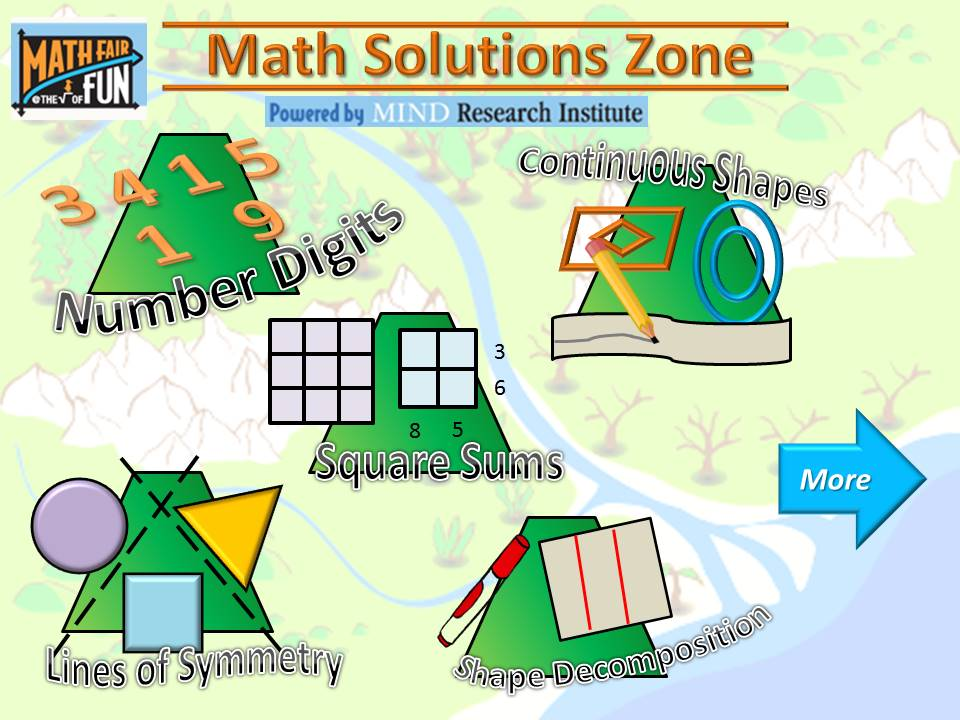
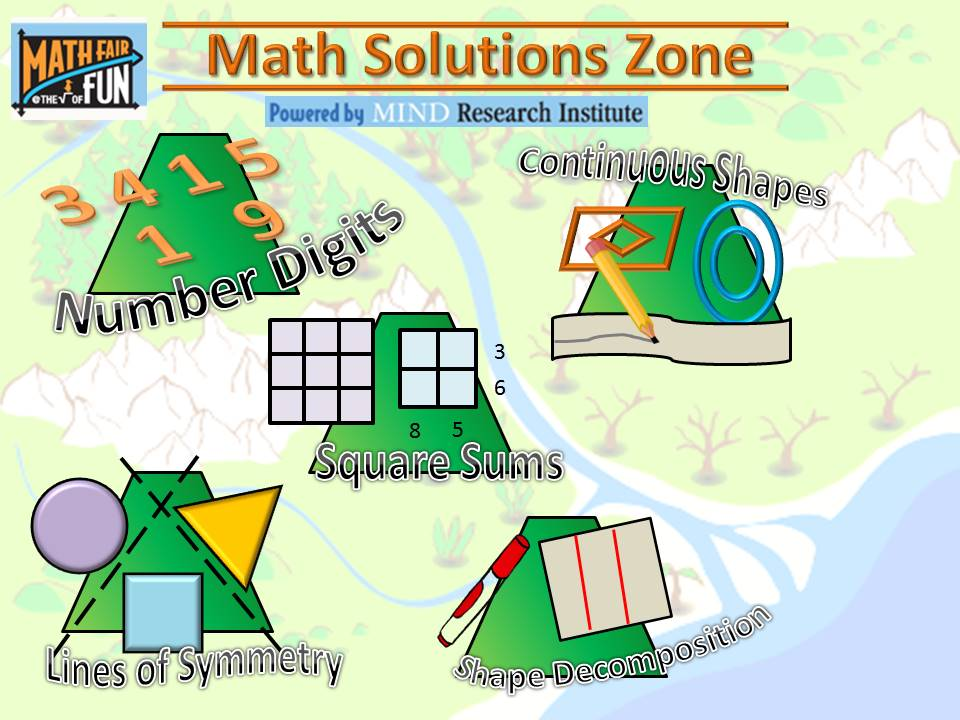
Fixed up square sums and fixed typos

Changed region(s): [[0.8125, 0.55, 0.9688, 0.7639]]

diff --git a/mss.js b/mss.js
@@ -38,7 +38,7 @@
 		['slide1',false,[],false,0,0],
 
 		//Main Menu
-		['slide2',false,[['link',.04,.18,.4,.25,5],['link',.55,.2,.31,.3,17],['link',.02,.64,.29,.31,22],['link',.81,.57,.16,.19,4],
+		['slide2',false,[['link',.04,.18,.4,.25,5],['link',.55,.2,.31,.3,17],['link',.02,.64,.29,.31,22],/*['link',.81,.57,.16,.19,4],*/
 		['link',.28,.44,.28,.235,29],['link',.45,.71,.34,.25,40]],false,0,0],		
 		['slide3',false,[['link',.04,.18,.4,.25,5],['link',.53,.2,.33,.3,14],['link',.02,.64,.29,.31,19],['link',.81,.57,.16,.19,4]],false,0,0],
 		['slide4',false,[['link',.03,.56,.16,.19,startslide]],false,0,0],
@@ -65,8 +65,8 @@
 		[.715,.2],[.28,.45],[.425,.45],[.57,.45],
 		[.715,.45]],[.13,.24]],
 		['slide14',true,[['clear',0,.9,.10,.10,0],['pen',0,.7,.10,.10,0],['eraser',0,.8,.10,.10,0],['link',.87,.85,.10,.10,5]],false,0,0],
-		['slide15',false,[['link',.87,.85,.10,.10,6]],false,0,0],
-		['slide16',false,[['link',.87,.85,.10,.10,6]],false,0,0],
+		['slide15',true,[['clear',0,.9,.10,.10,0],['pen',0,.7,.10,.10,0],['eraser',0,.8,.10,.10,0],['link',.87,.85,.10,.10,6]],false,0,0],
+		['slide16',true,[['clear',0,.9,.10,.10,0],['pen',0,.7,.10,.10,0],['eraser',0,.8,.10,.10,0],['link',.87,.85,.10,.10,6]],false,0,0],
 
 		//Continuous Shapes
 		['slide17',false,[['link',.07,.29,.18,.22,18],['link',.29,.29,.18,.22,19],['link',.52,.29,.18,.22,20],['link',.74,.29,.18,.22,21],
@@ -112,7 +112,7 @@
 		['slide37',false,[['link',.87,.85,.10,.10,29]],true,1,9,[[.293,.385],
 		[.293+2*.136,.385],[.293,.385+.182],[.293+.136,.385+.182],[.293+.136,.385+2*.182],
 		[.293+2*.136,.385+2*.182]],[.136,.182]],
-		['slide38',false,[['link',.87,.85,.10,.10,29]],true,2,9,[[.289,.389],
+		['slide38',false,[['link',.87,.85,.10,.10,29]],true,2,10,[[.289,.389],
 		[.289+2*.139,.389],[.289,.389+.186],[.289+.139,.389+.186],[.289,.389+2*.186],
 		[.289+2*.139,.389+2*.186]],[.139,.186]],
 		['slide39',true,[['clear',0,.9,.10,.10,0],['pen',0,.7,.10,.10,0],['eraser',0,.8,.10,.10,0],['link',.87,.85,.10,.10,30]],false,0,0],
@@ -134,7 +134,7 @@
 	];
 	
 	var dragNums = [['numone',1,0,.1,.1,false],['numtwo',1,.1,.1,.1,false],['numthree',1,.2,.1,.1,false],['numfour',1,.3,.1,.1,false],['numfive',0,.4,.1,.1,false],
-		['numsix',0,.5,.1,.1,false],['numseven',0,.6,.1,.1,false],['numeight',0,.7,.1,.1,false],['numnine',0,.8,.1,.1,false]];
+		['numsix',0,.5,.1,.1,false],['numseven',0,.6,.1,.1,false],['numeight',0,.7,.1,.1,false],['numnine',0,.8,.1,.1,false],['numten',1,0,.1,.1,false]];
 	var numsEnabledMin = 0;
 	var numsEnabledMax = 0;
 
@@ -148,8 +148,6 @@
 		canvas1 = document.getElementById( 'canvas1' );
 		
 		canvas2 = document.getElementById( 'canvas2' );
-	
-		// Just innerwidth/innerheight makes a scroll bar appear, not sure if I am doing something wrong here
 	
 		canvas2.addEventListener('mousedown', mouseDownHandler, false);		
 		canvas2.addEventListener('mousemove', mouseMoveHandler, false);				
@@ -170,6 +168,7 @@
 		canvas2.addEventListener('touchleave', otherHandler, false);
 		canvas2.addEventListener('touchcancel', otherHandler, false);
 
+		// Just innerwidth/innerheight makes a scroll bar appear, not sure if I am doing something wrong here
 		context1  = canvas1.getContext( "2d" );
 		context2  = canvas2.getContext( "2d" );	
 		context1.canvas.width  = window.innerWidth - 25;
@@ -216,9 +215,9 @@
 						numH = slides[curslide][7][1];
 						resetNums();
 					}
-					writeText(curslide);
+					//writeText(curslide);
 				} else if(butType == 'clear') {
-					context2.clearRect(0,0,w+50,h);
+					context2.clearRect(0,0,canvas2.width,canvas2.height);
 				} else if(butType == 'pen') {
 					pen = true;
 				} else if(butType == 'eraser') {
@@ -232,13 +231,15 @@
 		}
 		if(draggable) {
 			for(i=numsEnabledMin;i<numsEnabledMax;i++) {
-				if (curX > dragNums[i][1]*w && curX < (dragNums[i][1] + dragNums[i][3])*w && 
-				curY > dragNums[i][2]*h && curY < (dragNums[i][2] + dragNums[i][4])*h) {
-					held = dragNums[i];
-					dragNums[i][1] = curX/w - dragNums[i][3]/2;
-					dragNums[i][2] = curY/h - dragNums[i][4]/2;
-					drawDraggable();
-					break;
+				if((curslide != 37 || (i != 3 && i != 6)) && (curslide != 38 || (i != 2 && i != 8))) {
+					if (curX > dragNums[i][1]*w && curX < (dragNums[i][1] + dragNums[i][3])*w && 
+					curY > dragNums[i][2]*h && curY < (dragNums[i][2] + dragNums[i][4])*h) {
+						held = dragNums[i];
+						dragNums[i][1] = curX/w - dragNums[i][3]/2;
+						dragNums[i][2] = curY/h - dragNums[i][4]/2;
+						drawDraggable();
+						break;
+					}
 				}
 			}
 		}
@@ -261,6 +262,8 @@
 			
 		}
 		snapped = false;
+		
+		//Manually disabled certain numbers since they don't come in a range in only those two slides
 		if (draggable && held != null) {	
 			for(i=0;i<boxes.length;i++) { 
 				if (curX > (boxes[i][0]+snapConstant*numW)*w && curX < (boxes[i][0] + (1-snapConstant)*numW)*w && 
@@ -270,7 +273,6 @@
 					snapped = true;
 					break;
 				}
-				//dragNums[0][0] = 'erase';
 			}
 			if (!snapped) {
 				held[1] = curX/w - held[3]/2;
@@ -381,13 +383,15 @@
 		
 		if(draggable) {
 			for(i=numsEnabledMin;i<numsEnabledMax;i++) {
-				if (curX > dragNums[i][1]*w && curX < (dragNums[i][1] + dragNums[i][3])*w && 
-				curY > dragNums[i][2]*h && curY < (dragNums[i][2] + dragNums[i][4])*h) {
-					held = dragNums[i];
-					dragNums[i][1] = curX/w - dragNums[i][3]/2;
-					dragNums[i][2] = curY/h - dragNums[i][4]/2;
-					drawDraggable();
-					break;
+				if((curslide != 37 || (i != 3 && i != 6)) && (curslide != 38 || (i != 2 && i != 8))) {
+					if (curX > dragNums[i][1]*w && curX < (dragNums[i][1] + dragNums[i][3])*w && 
+					curY > dragNums[i][2]*h && curY < (dragNums[i][2] + dragNums[i][4])*h) {
+						held = dragNums[i];
+						dragNums[i][1] = curX/w - dragNums[i][3]/2;
+						dragNums[i][2] = curY/h - dragNums[i][4]/2;
+						drawDraggable();
+						break;
+					}
 				}
 			}
 		}
@@ -503,7 +507,9 @@
 	function drawDraggable() {
 		context2.clearRect(0,0,canvas2.width,canvas2.height);
 		for(i=numsEnabledMin;i<numsEnabledMax;i++) {
-			context2.drawImage(document.getElementById(dragNums[i][0]),dragNums[i][1]*w,dragNums[i][2]*h,dragNums[i][3]*w,dragNums[i][4]*h);
+			if((curslide != 37 || (i != 3 && i != 6)) && (curslide != 38 || (i != 2 && i != 8))) {
+				context2.drawImage(document.getElementById(dragNums[i][0]),dragNums[i][1]*w,dragNums[i][2]*h,dragNums[i][3]*w,dragNums[i][4]*h);
+			}
 		}
 		for(i=0;i<boxes.length;i++) {
 			context1.drawImage(document.getElementById('box'),boxes[i][0]*w,boxes[i][1]*h,numW*w,numH*h);
@@ -516,9 +522,9 @@
 		context2.lineTo(x2, y2);
 		//Ends up jagged on diagonal lines if the width is too big because the lines have to be drawn a little at a time
 		context2.lineWidth = 2;
-		if(canvas2.height*img.width/img.height - x2 >= 0 && canvas2.height - y2 >= 0) {
+		//if(canvas2.height*img.width/img.height - x2 >= 0 && canvas2.height - y2 >= 0) {
 			context2.stroke();
-		}
+		//}
 		context2.closePath();
 	}
 	

diff --git a/index.html b/index.html
@@ -15,6 +15,7 @@
   <img id="numseven" src="numseven.png">
   <img id="numeight" src="numeight.png">
   <img id="numnine" src="numnine.png">
+  <img id="numten" src="numten.png">
   <img id="slide0" src="Slide1.JPG">
   <img id="slide1" src="Slide1.JPG">
   <img id="slide2" src="Slide2.JPG">
